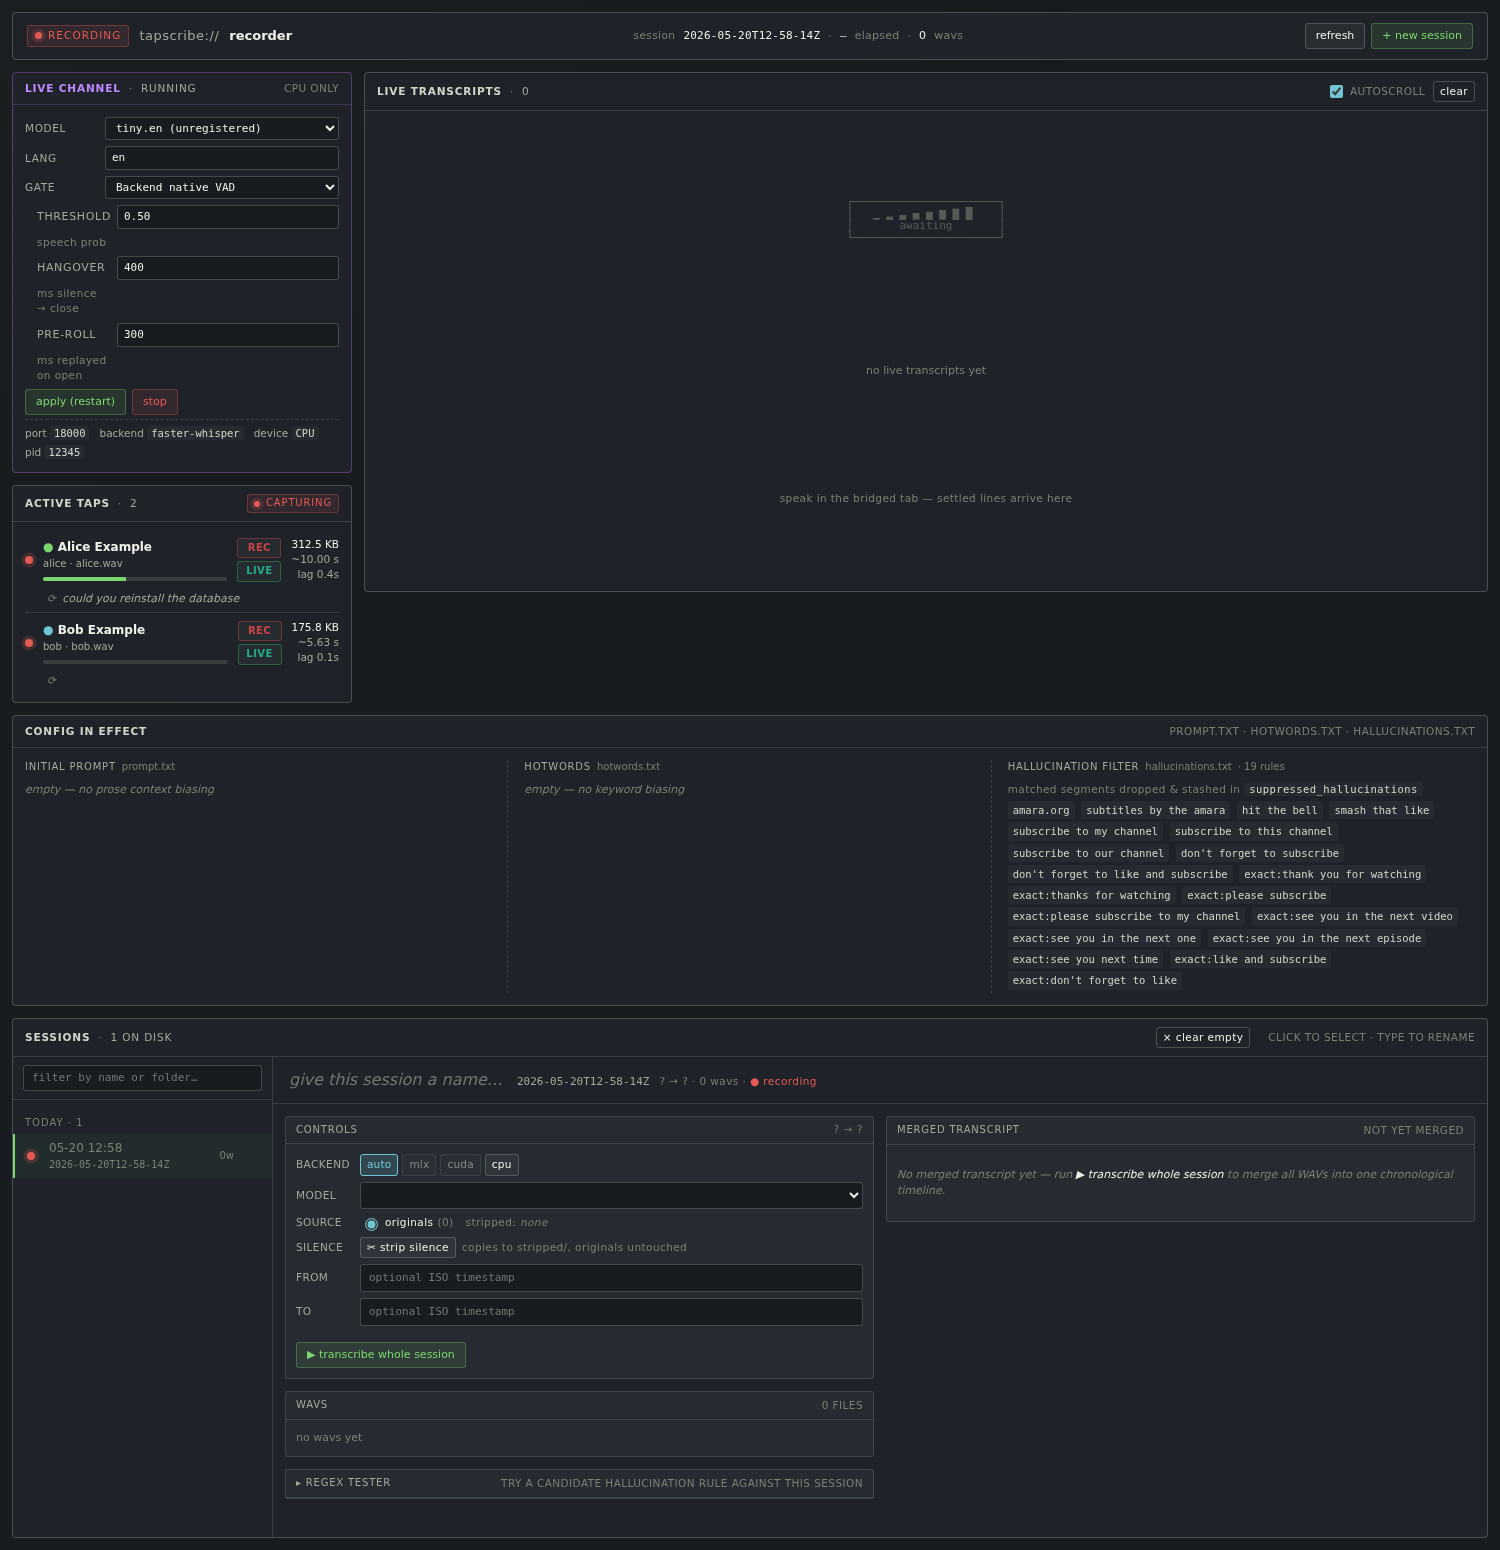
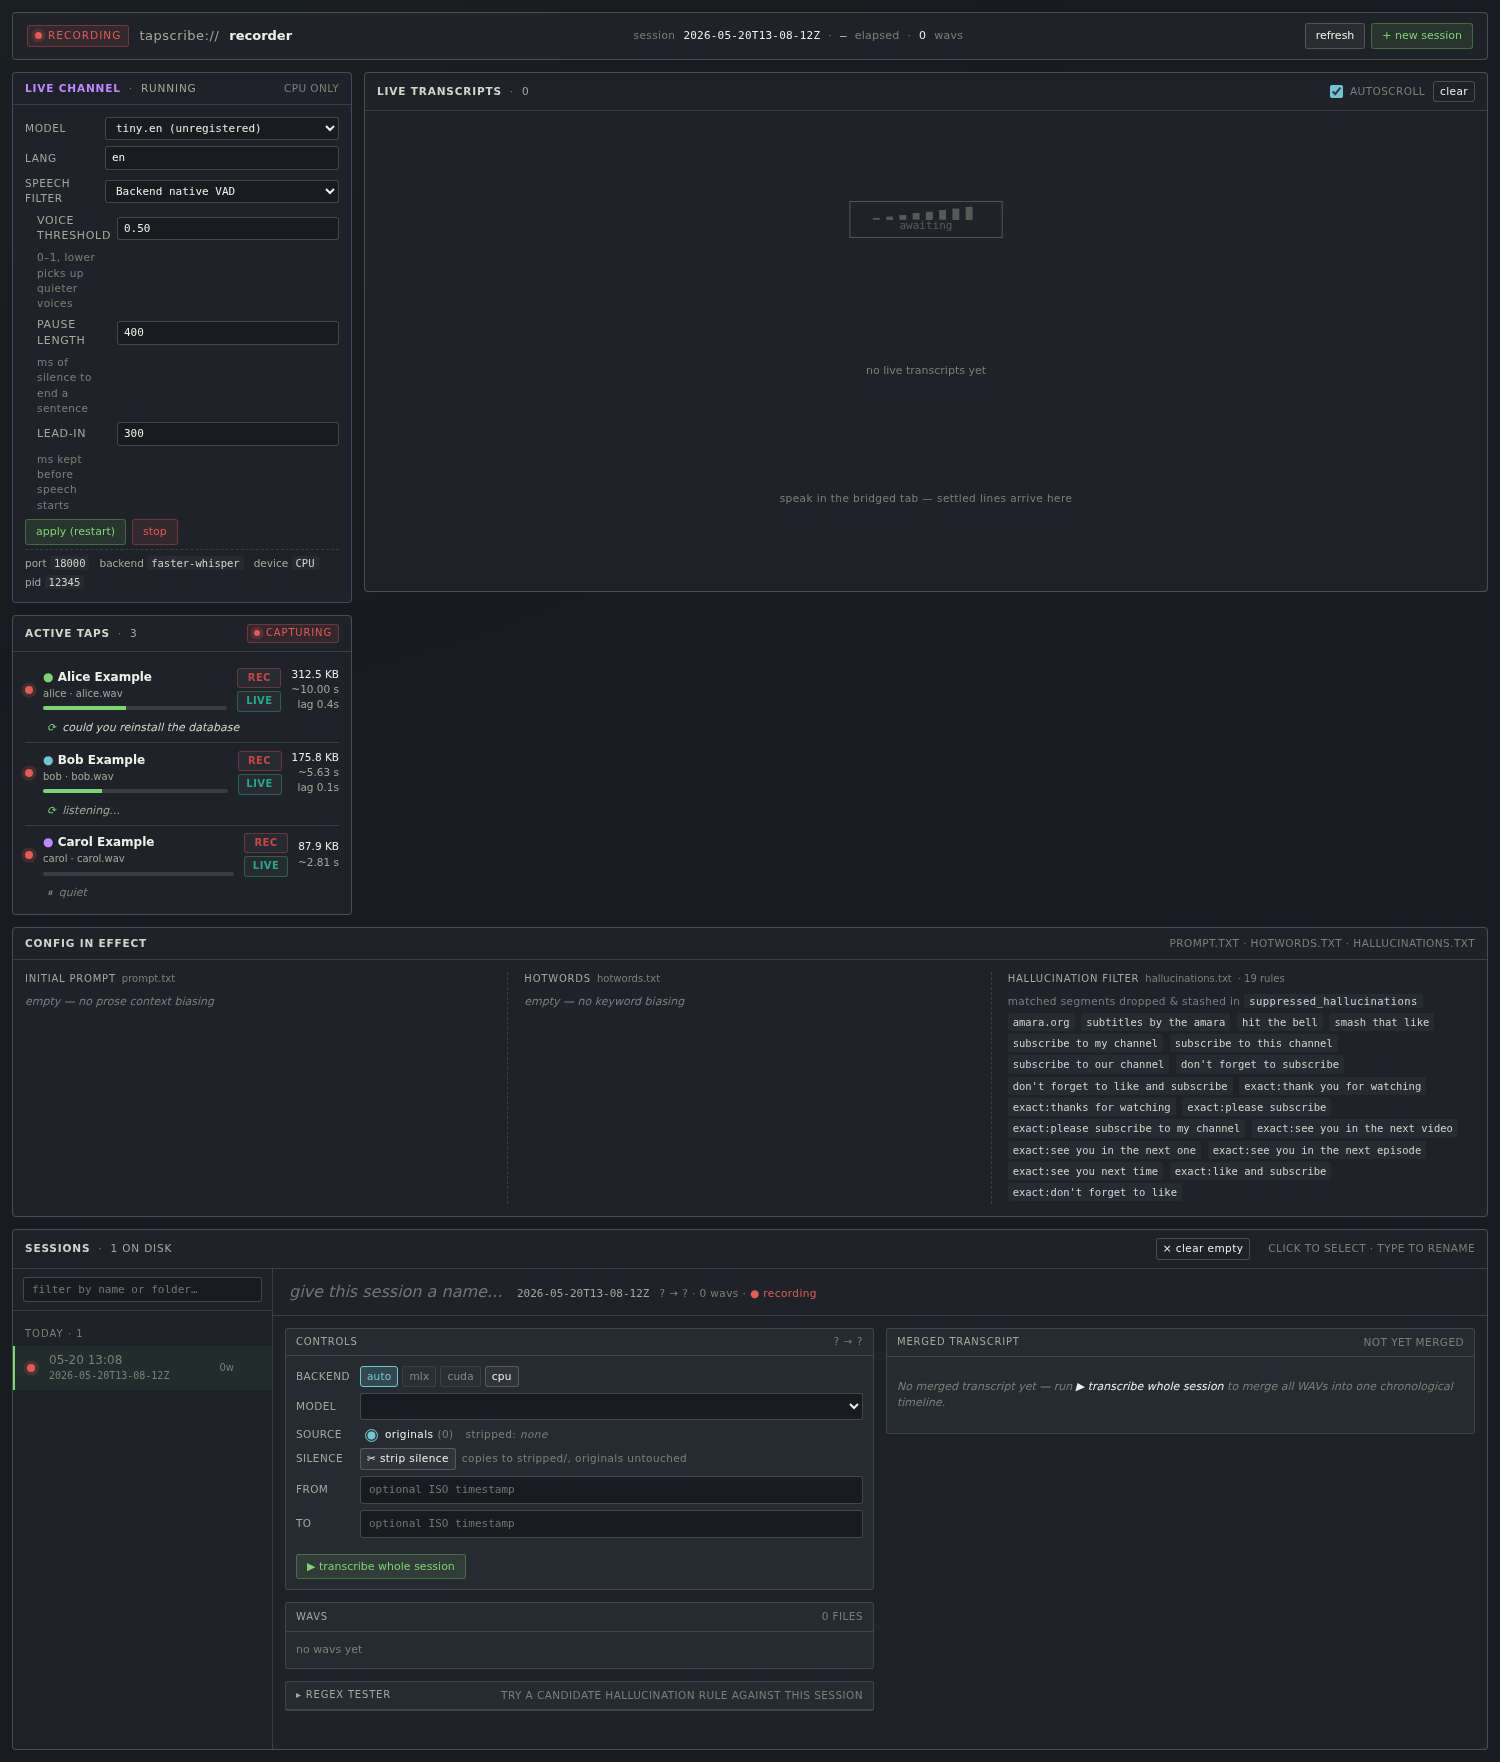
Add 3-state status line per tap + plain-English UI labels
The buffer line under each tap now reflects the live transcription
pipeline's state in one of three ways so operators can diagnose
the failure shapes at a glance:

  ⟳ <text>     — model is currently transcribing this hypothesis
  ⟳ listening… — audio is reaching the model, nothing decoded yet
  ⏸ quiet      — no speech detected; gate is holding audio back

To surface "is the gate currently open" without polling
buffer_transcription, ActiveStream gains a gate_open: bool flag,
populated by TapFanOut on each gate transition (transitions only —
not per frame — so the ActiveStreams lock isn't hit at 50 Hz/tap).

UI labels in the live-channel panel rewritten in plain English:

  GATE                 → "speech filter"
  "TapScribe (Silero)" → "TapScribe (recommended)"
  "Backend native VAD" → "Transcription engine"
  THRESHOLD            → "voice threshold"
  HANGOVER             → "pause length"
  PRE-ROLL             → "lead-in"

Helper hint text also rewritten to avoid VAD jargon — operators
without a streaming-ASR background can tune the knobs from the
dashboard now.

Screenshot regenerated to show all three status-line states
stacked (Alice transcribing, Bob listening, Carol quiet).

diff --git a/tapscribe/web/components/live-channel.html b/tapscribe/web/components/live-channel.html
@@ -9,42 +9,38 @@
   </div>
 
   <!--
-    Speech gate: chooses which layer does silence gating before audio
-    reaches the live ASR backend.
-      - tapscribe: our Silero-backed SpeechGate with pre-roll (recovers
-        leading consonants). Backend's native VAD is disabled.
-      - backend:   defer to backend's native VAD (today's behaviour;
-        kept as an A/B escape hatch). Greys out when the current
-        LiveChannel has no native VAD (live_supports_native_vad=false).
+    Speech filter: who decides "this is speech, send it to be
+    transcribed" vs "this is silence, don't bother". See README
+    "Speech filter" section for the operator-facing explanation;
+    in code: gate_kind="tapscribe" runs our own Silero gate with
+    pre-roll, "backend" defers to the model's built-in VAD.
   -->
   <div class="live-row">
-    <span class="lbl">gate</span>
+    <span class="lbl">speech filter</span>
     <select class="select" id="liveGateKindSelect">
-      <option value="tapscribe">TapScribe (Silero + pre-roll)</option>
-      <option value="backend">Backend native VAD</option>
+      <option value="tapscribe">TapScribe (recommended)</option>
+      <option value="backend">Transcription engine</option>
     </select>
   </div>
 
   <!--
-    Gate knobs (only meaningful when gate_kind=tapscribe). Operators
-    tune speech threshold (Silero probability gate), hangover (silence
-    duration before close), and pre-roll (audio replayed on open) to
-    match their mic environment without restarting via config edits.
+    Knobs for the TapScribe speech filter. Labels kept plain so an
+    operator without VAD background can still tune them on the box.
   -->
   <div class="live-row gate-knob-row">
-    <span class="lbl">threshold</span>
+    <span class="lbl">voice threshold</span>
     <input class="input" type="number" id="liveGateThreshold" step="0.05" min="0" max="1" size="4">
-    <span class="dim tiny">speech prob</span>
+    <span class="dim tiny">0–1, lower picks up quieter voices</span>
   </div>
   <div class="live-row gate-knob-row">
-    <span class="lbl">hangover</span>
+    <span class="lbl">pause length</span>
     <input class="input" type="number" id="liveGateHangover" step="50" min="0" max="5000" size="5">
-    <span class="dim tiny">ms silence → close</span>
+    <span class="dim tiny">ms of silence to end a sentence</span>
   </div>
   <div class="live-row gate-knob-row">
-    <span class="lbl">pre-roll</span>
+    <span class="lbl">lead-in</span>
     <input class="input" type="number" id="liveGatePreRoll" step="20" min="0" max="2000" size="5">
-    <span class="dim tiny">ms replayed on open</span>
+    <span class="dim tiny">ms kept before speech starts</span>
   </div>
 
   <div class="action-row mt-s" data-slot="actions"></div>

diff --git a/tapscribe/web/js/components/active-taps.js b/tapscribe/web/js/components/active-taps.js
@@ -84,16 +84,36 @@ export function render(j, { countEl, badgeEl, bodyEl }) {
       btn.classList.toggle("on", on);
     }
 
-    // In-flight buffer (uncommitted hypothesis from the relay's
-    // on_buffer callback). Empty / missing → row stays hidden so
-    // taps without live data don't show a phantom indicator.
+    // Three-state status line under each tap row:
+    //   ⟳ <text>      — model is transcribing the latest hypothesis
+    //   ⟳ listening…  — audio is being forwarded but nothing decoded yet
+    //   ⏸ quiet       — gate is closed (no speech detected)
+    // Hidden when LIVE is off, or when we have nothing meaningful to show
+    // (e.g. backend-gate mode with no buffer text — we can't tell what
+    // the backend's own VAD is doing, so we stay silent).
     const bufRow = pick(node, "bufferRow");
     const bufText = pick(node, "bufferText");
+    const bufIcon = pick(node, "bufferIcon");
     const buf = (a.buffer_transcription || "").trim();
-    if (bufRow && bufText) {
-      if (buf && liveOn) {
+    const gateOpen = !!a.gate_open;
+    if (bufRow && bufText && bufIcon) {
+      let icon = "";
+      let text = "";
+      let cls = "";
+      if (liveOn) {
+        if (buf) {
+          icon = "⟳"; text = buf; cls = "buf-active";
+        } else if (gateOpen) {
+          icon = "⟳"; text = "listening…"; cls = "buf-listening";
+        } else {
+          icon = "⏸"; text = "quiet"; cls = "buf-quiet";
+        }
+      }
+      if (text) {
         bufRow.hidden = false;
-        bufText.textContent = buf;
+        bufIcon.textContent = icon;
+        bufText.textContent = text;
+        bufRow.className = "stream-buffer " + cls;
       } else {
         bufRow.hidden = true;
         bufText.textContent = "";

diff --git a/tapscribe/web/dashboard.css b/tapscribe/web/dashboard.css
@@ -496,6 +496,15 @@ button, input, select, textarea { font: inherit; color: inherit; }
 
   & .buffer-text { color: var(--fg-2); }
 }
+/* Active hypothesis — Whisper is currently transcribing this. */
+.stream-buffer.buf-active .buffer-text { color: var(--fg-1); }
+.stream-buffer.buf-active .buffer-icon { color: var(--ok, #2a8); }
+/* Listening — audio is reaching the model but nothing transcribed yet. */
+.stream-buffer.buf-listening .buffer-text { color: var(--fg-2); }
+.stream-buffer.buf-listening .buffer-icon { color: var(--ok, #2a8); }
+/* Quiet — gate is closed; the model isn't being fed any audio right now. */
+.stream-buffer.buf-quiet .buffer-text,
+.stream-buffer.buf-quiet .buffer-icon { color: var(--fg-3); }
 
 /*
  * Gate-knob rows in the live-channel panel. Slightly indented + smaller

diff --git a/tapscribe/web/components/active-taps.html b/tapscribe/web/components/active-taps.html
@@ -49,8 +49,15 @@
     or text just committed). Operators see what the model is currently
     transcribing before it commits to the chat log.
   -->
+  <!--
+    Status line for the live transcription pipeline. One of three states:
+      ⟳ <text>       — model is currently transcribing this hypothesis
+      ⟳ listening…   — audio is reaching the model but nothing transcribed yet
+      ⏸ quiet        — no speech detected; gate is holding audio back
+    Hidden when LIVE is off, or when there's nothing meaningful to show.
+  -->
   <div class="stream-buffer" data-slot="bufferRow" hidden>
-    <span class="dim tiny">⟳</span>
+    <span class="buffer-icon dim tiny" data-slot="bufferIcon">⟳</span>
     <span class="buffer-text" data-slot="bufferText"></span>
   </div>
  </div>

diff --git a/tools/screenshot_gate_ui.py b/tools/screenshot_gate_ui.py
@@ -59,6 +59,8 @@ async def _seed_state(recorder: Recorder) -> None:
     recorder.live.info["pid"] = "12345"
     recorder.live.info["started_at"] = datetime.now(timezone.utc).isoformat()
 
+    # Seed three taps so each of the three buffer-line states is on
+    # screen at once for the screenshot.
     await recorder.streams.register(
         ActiveStream(
             conn_id="conn-alice",
@@ -70,6 +72,7 @@ async def _seed_state(recorder: Recorder) -> None:
             level=0.45,
             lag_s=0.4,
             buffer_transcription="could you reinstall the database",
+            gate_open=True,
             record=True,
             live=True,
         )
@@ -82,9 +85,26 @@ async def _seed_state(recorder: Recorder) -> None:
             filename="bob.wav",
             started_at=datetime.now(timezone.utc),
             bytes_received=180_000,
-            level=0.0,
+            level=0.32,
             lag_s=0.1,
             buffer_transcription="",
+            gate_open=True,
+            record=True,
+            live=True,
+        )
+    )
+    await recorder.streams.register(
+        ActiveStream(
+            conn_id="conn-carol",
+            identity="carol",
+            name="Carol Example",
+            filename="carol.wav",
+            started_at=datetime.now(timezone.utc),
+            bytes_received=90_000,
+            level=0.0,
+            lag_s=None,
+            buffer_transcription="",
+            gate_open=False,
             record=True,
             live=True,
         )
@@ -157,7 +177,7 @@ async def main() -> None:
             # so all panels render with the seeded state.
             await page.wait_for_selector("#liveGateKindSelect", timeout=5_000)
             await page.wait_for_function(
-                "document.querySelectorAll('.stream-row').length >= 2",
+                "document.querySelectorAll('.stream-row').length >= 3",
                 timeout=5_000,
             )
             # Brief settle so the buffer-transcription row's hidden→shown
@@ -199,18 +219,27 @@ async def main() -> None:
                 path=str(SHOTS_DIR / "02-live-channel-gate-controls.png")
             )
 
-            # 3) Tap-row crop showing the in-flight buffer_transcription
-            #    line beneath Alice's row.
-            alice_row = await page.query_selector(
-                ".stream-row-wrap:has(.fg:text('Alice Example'))"
+            # 3) Active-taps card crop — shows all three status-line
+            #    states stacked: ⟳ <text> (Alice), ⟳ listening… (Bob),
+            #    ⏸ quiet (Carol).
+            taps_card = await page.evaluate_handle(
+                """() => {
+                    const wrap = document.querySelector('.stream-row-wrap');
+                    if (!wrap) return null;
+                    let el = wrap;
+                    while (el && el.parentElement) {
+                        if (el.matches('section, article, aside')) return el;
+                        el = el.parentElement;
+                    }
+                    return wrap.closest('section, article, aside, div');
+                }"""
             )
-            if alice_row is None:
-                alice_row = await page.query_selector("section.card:has(.stream-row-wrap)")
-            assert alice_row is not None
-            # Screenshot the row + its associated buffer line (template
-            # wraps both in the same root .stream-row template fragment).
-            await alice_row.screenshot(
-                path=str(SHOTS_DIR / "03-tap-row-with-in-flight-buffer.png")
+            taps_card_el = taps_card.as_element()
+            if taps_card_el is None:
+                taps_card_el = await page.query_selector(".stream-row-wrap")
+            assert taps_card_el is not None
+            await taps_card_el.screenshot(
+                path=str(SHOTS_DIR / "03-tap-rows-three-status-states.png")
             )
 
             # 4) Flip the gate selector to "backend" to show the

diff --git a/tests/test_tap_fan_out.py b/tests/test_tap_fan_out.py
@@ -759,6 +759,60 @@ async def test_backend_gate_kind_passes_all_frames_without_a_gate(
         await _wait_for(lambda: sum(len(c) for c in fake_wlk.received) >= len(PCM_FRAME) * 3)
 
 
+async def test_gate_open_state_propagates_to_active_stream(
+    recorder_with_relay: Recorder,
+    monkeypatch: pytest.MonkeyPatch,
+):
+    """When the SpeechGate transitions open or closed, the per-tap
+    ActiveStream.gate_open must follow. The dashboard's status-line
+    rendering relies on this — operators see ⟳ vs ⏸ from this flag."""
+    from dataclasses import replace as dc_replace
+
+    from tapscribe.speech_gate import SpeechGate
+
+    recorder_with_relay.live.config = dc_replace(
+        recorder_with_relay.live.config, gate_kind="tapscribe", gate_pre_roll_ms=0
+    )
+
+    # VAD queue: open on call #1, then close on call #2.
+    def _open_then_close(*args, **kwargs):
+        events = [{"start": 0}, None, {"end": 0}]
+
+        def analyze(chunk):
+            return events.pop(0) if events else None
+
+        return SpeechGate(vad=analyze, pre_roll_ms=0)
+
+    monkeypatch.setattr("tapscribe.tap_fan_out.build_gate_for_config", _open_then_close)
+
+    async with await TapFanOut.open(
+        recorder_with_relay,
+        identity="alice",
+        name="Alice",
+        utterance_id="utt-gate-state",
+        do_record=True,
+        do_live=True,
+    ) as fan_out:
+        # Initially closed.
+        snap = await recorder_with_relay.streams.snapshot()
+        assert snap[0].gate_open is False
+
+        # Frame 1 (640 buffered, no VAD run yet).
+        await fan_out.write_frame(PCM_FRAME)
+        # Frame 2 (1280 buffered → VAD runs → start). Gate flips open.
+        await fan_out.write_frame(PCM_FRAME)
+        snap = await recorder_with_relay.streams.snapshot()
+        assert snap[0].gate_open is True
+
+        # Frames 3, 4 keep it open (VAD call #2 returns None).
+        await fan_out.write_frame(PCM_FRAME)
+        await fan_out.write_frame(PCM_FRAME)
+        # Frame 5 fires VAD call #3 → end. Gate flips closed.
+        await fan_out.write_frame(PCM_FRAME)
+        snap = await recorder_with_relay.streams.snapshot()
+        assert snap[0].gate_open is False
+
+
 async def test_relay_buffer_transcription_updates_active_stream(
     recorder_with_relay: Recorder,
     fake_wlk: FakeWlkThread,

diff --git a/tapscribe/recorder.py b/tapscribe/recorder.py
@@ -66,6 +66,14 @@ class ActiveStream:
     # whenever WlK's buffer is clean (text just committed, no audio
     # in flight, or live is off).
     buffer_transcription: str = ""
+    # True while TapScribe's SpeechGate is currently forwarding audio
+    # to the live backend (mid-burst, including pre-roll and hangover).
+    # False while filtering silence. Drives the per-tap status line on
+    # the dashboard: operators can tell at a glance whether the gate
+    # is letting audio through or holding it back. Only meaningful when
+    # gate_kind="tapscribe"; in "backend" mode the recorder doesn't
+    # know what the backend's own VAD is doing, so this stays False.
+    gate_open: bool = False
 
 
 class ActiveStreams:
@@ -115,6 +123,16 @@ class ActiveStreams:
             existing = self._by_id.get(conn_id)
             if existing is not None:
                 existing.lag_s = lag_s
+
+    async def update_gate_open(self, conn_id: str, gate_open: bool) -> None:
+        """Same race semantics as the other update_* methods. Called
+        by TapFanOut on each gate transition (open↔closed) — the
+        per-frame check in write_frame skips this call when the value
+        hasn't changed, so we don't hammer the lock at 50 Hz/tap."""
+        async with self._lock:
+            existing = self._by_id.get(conn_id)
+            if existing is not None:
+                existing.gate_open = gate_open
 
     async def update_buffer_transcription(self, conn_id: str, text: str) -> None:
         """Same race semantics as update_lag: harmless when the conn_id

diff --git a/tests/test_recorder_subcomponents.py b/tests/test_recorder_subcomponents.py
@@ -141,6 +141,41 @@ async def test_active_streams_update_buffer_transcription_unknown_id_is_noop():
     await streams.update_buffer_transcription("nobody-home", "should not raise")
 
 
+@pytest.mark.asyncio
+async def test_active_streams_update_gate_open_persists_state():
+    """The dashboard's per-tap row shows whether TapScribe is actively
+    forwarding audio (gate open) or filtering silence (gate closed).
+    The flag must round-trip via the dataclass field and be settable
+    via the dedicated update method."""
+    streams = ActiveStreams()
+    await streams.register(
+        ActiveStream(
+            conn_id="g1",
+            identity="i",
+            name="n",
+            filename="f",
+            started_at=datetime.now(timezone.utc),
+        )
+    )
+    # Default — gate closed (no audio forwarded yet).
+    snap = await streams.snapshot()
+    assert snap[0].gate_open is False
+
+    await streams.update_gate_open("g1", True)
+    snap = await streams.snapshot()
+    assert snap[0].gate_open is True
+
+    await streams.update_gate_open("g1", False)
+    snap = await streams.snapshot()
+    assert snap[0].gate_open is False
+
+
+@pytest.mark.asyncio
+async def test_active_streams_update_gate_open_unknown_id_is_noop():
+    streams = ActiveStreams()
+    await streams.update_gate_open("nobody-home", True)
+
+
 # ---------------------------------------------------------------------------
 # JobTracker
 # ---------------------------------------------------------------------------

diff --git a/tapscribe/tap_fan_out.py b/tapscribe/tap_fan_out.py
@@ -80,6 +80,11 @@ class TapFanOut:
         # `tapscribe.tap_fan_out.build_gate_for_config` to inject a
         # deterministic fake VAD without loading Silero.
         self._gate: SpeechGate | None = None
+        # Mirror of `self._gate.is_open` from the last frame, so
+        # write_frame can detect transitions and only push to the
+        # ActiveStream when the value actually changed (avoids a lock
+        # acquire on every 20 ms frame).
+        self._gate_open_last: bool = False
         # Backoff bookkeeping for transparent relay reconnection across
         # WhisperLiveKit restarts (model swap, child crash). The task
         # handle lets _close cancel an in-flight attempt cleanly; the
@@ -154,6 +159,13 @@ class TapFanOut:
         # through and the backend's own VAD does the gating.
         if self._gate is not None:
             frames_to_send = self._gate.feed(buf)
+            # Surface gate transitions to the dashboard. Skip the lock
+            # acquire when the value hasn't changed — otherwise we'd
+            # hit the ActiveStreams mutex 50× per second per /tap.
+            current_open = self._gate.is_open
+            if current_open != self._gate_open_last:
+                self._gate_open_last = current_open
+                await self._recorder.streams.update_gate_open(self._conn_id, current_open)
         else:
             frames_to_send = (buf,)
 
